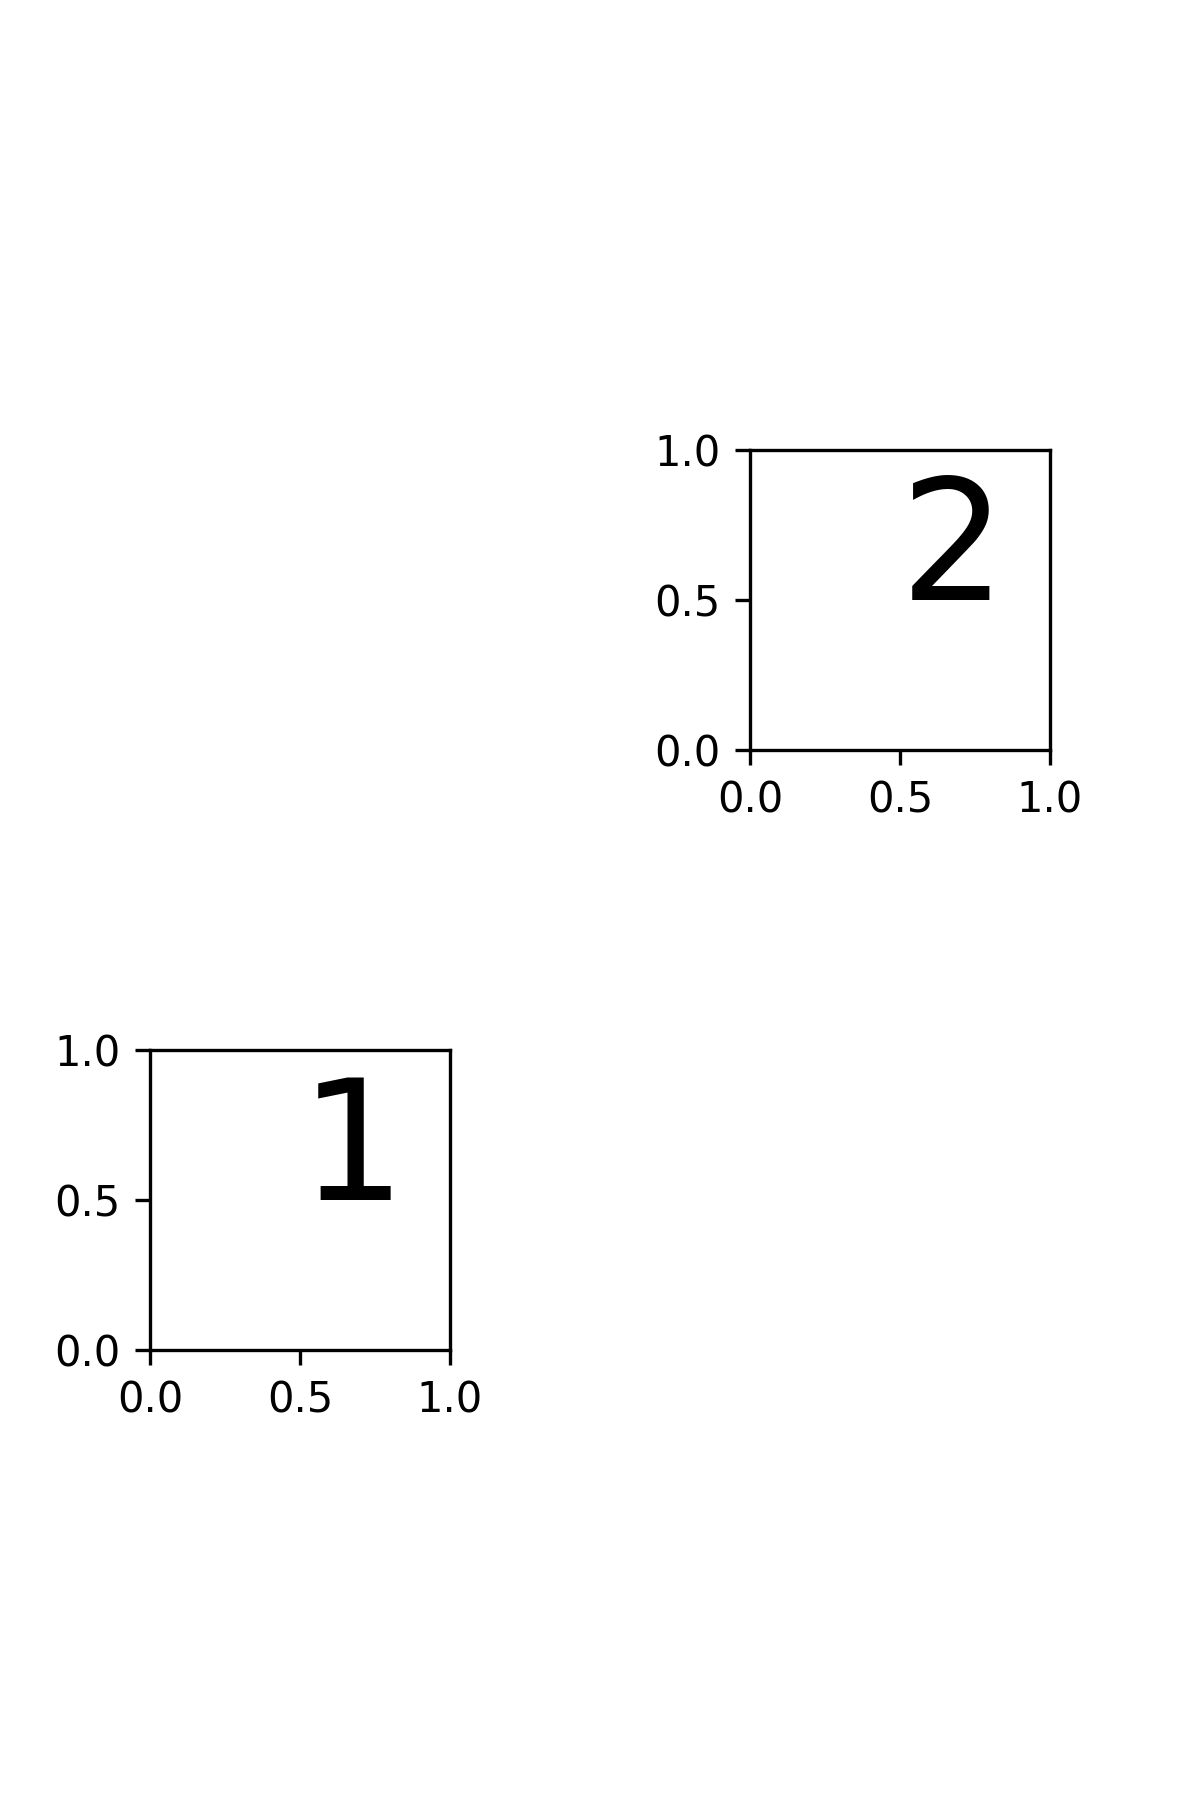
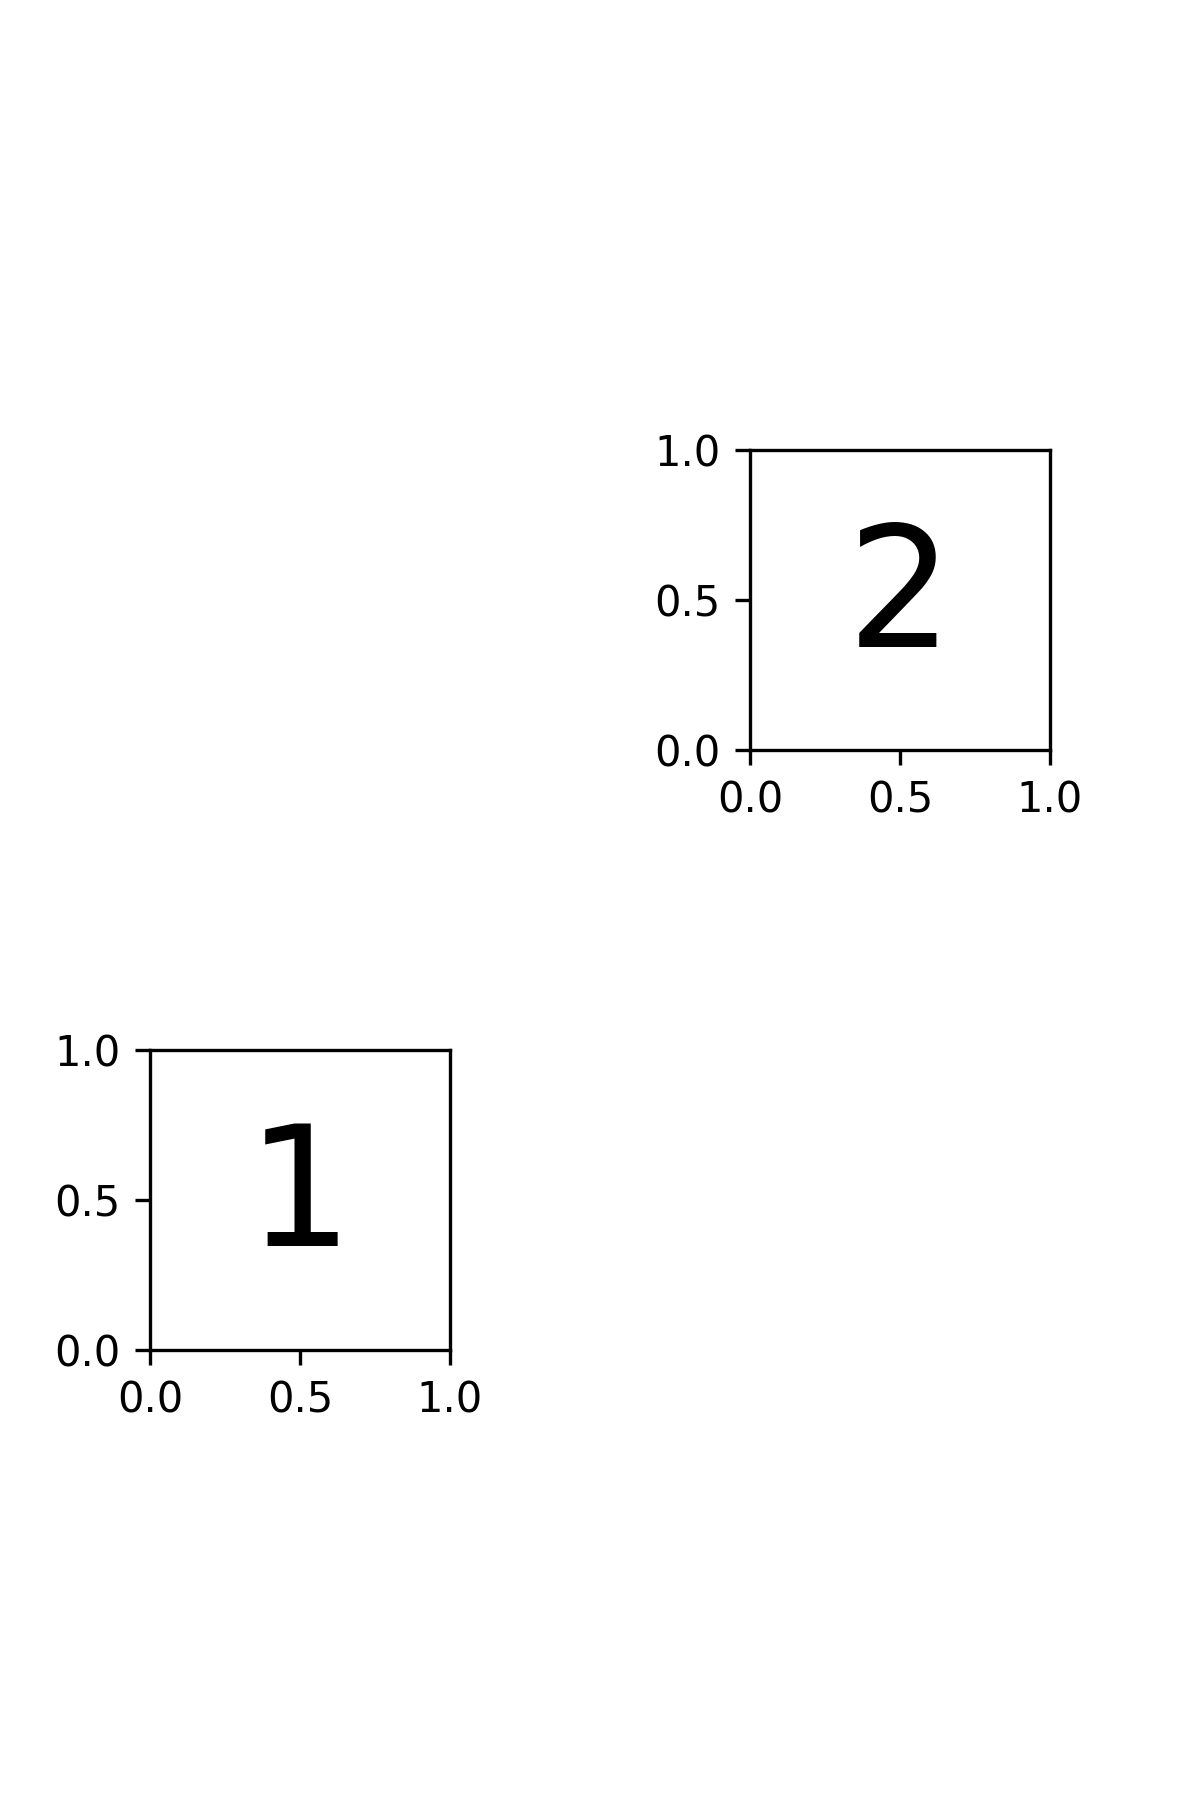
ryan comments

Changed region(s): [[0.7092, 0.2489, 0.8325, 0.3733], [0.2158, 0.5911, 0.3392, 0.7156]]

diff --git a/aopy/visualization/base.py b/aopy/visualization/base.py
@@ -133,7 +133,7 @@ def place_subplots(fig, positions, width, height, **kwargs):
     
     Args:
         fig (pyplot.Figure): figure to place the subplots on
-        positions (npos, 2): list of (x, y) positions (in inches) to place the subplots 
+        positions (npos, 2): list of (x, y) coordinates (in inches) where to center the subplots 
         width (float): width (in inches) of each subplot
         height (float): height (in inches) of each subplot
         kwargs (dict, optional): other keyword arguments to pass to fig.add_axes
@@ -184,7 +184,7 @@ def place_subplots(fig, positions, width, height, **kwargs):
         ax.append(fig.add_axes([left, bottom, width, height], **kwargs))
     return ax
 
-def place_Opto32_subplots(fig_size=10, subplot_size=1, offset=(0,1), **kwargs):
+def place_Opto32_subplots(fig_size=5, subplot_size=0.75, offset=(0.,-0.25), **kwargs):
     '''
     Wrapper around place_subplots() for the Opto32 stimulation sites.
 
@@ -204,14 +204,13 @@ def place_Opto32_subplots(fig_size=10, subplot_size=1, offset=(0,1), **kwargs):
         .. image:: _images/place_Opto32_subplots.png
     '''
     stim_pos, _, _ = load_chmap('Opto32')
-    elec_pos, _, _ = load_chmap('ECoG244')
 
-    # Normalize the positions (relative to the ecog electrodes) to the width and height of the figure
-    stim_pos = (stim_pos - np.min(elec_pos)) / np.max(elec_pos) * fig_size - np.array(offset)
+    # Normalize the positions to the width and height of the figure
+    stim_pos = (stim_pos - np.mean(stim_pos, axis=0)) / (np.max(stim_pos) - np.min(stim_pos)) * fig_size + fig_size/2
 
     # Place subplots
     fig = plt.figure(figsize=(fig_size,fig_size), **kwargs)
-    ax = place_subplots(fig, stim_pos, subplot_size, subplot_size)
+    ax = place_subplots(fig, stim_pos + np.array(offset), subplot_size, subplot_size)
 
     # Remove the axis labels
     for ax_ in ax:

diff --git a/tests/test_visualization.py b/tests/test_visualization.py
@@ -680,8 +680,8 @@ class TestPlotUtils(unittest.TestCase):
         width = 1
         height = 1
         ax = place_subplots(fig, positions, width, height)
-        ax[0].annotate('1', (0.5,0.5), fontsize=40)
-        ax[1].annotate('2', (0.5,0.5), fontsize=40)
+        ax[0].annotate('1', (0.5,0.5), ha='center', va='center', fontsize=40)
+        ax[1].annotate('2', (0.5,0.5), ha='center', va='center', fontsize=40)
         aopy.visualization.savefig(docs_dir, "place_subplots_1.png", transparent=False)
 
         fig = plt.figure(figsize=(4,6))
@@ -689,14 +689,14 @@ class TestPlotUtils(unittest.TestCase):
         width = 2
         height = 3
         ax = place_subplots(fig, positions, width, height)
-        ax[0].annotate('1', (0.5,0.5), fontsize=40)
-        ax[1].annotate('2', (0.5,0.5), fontsize=40)
+        ax[0].annotate('1', (0.5,0.5), ha='center', va='center', fontsize=40)
+        ax[1].annotate('2', (0.5,0.5), ha='center', va='center', fontsize=40)
         aopy.visualization.savefig(docs_dir, "place_subplots_2.png", transparent=False)
 
     def test_place_Opto32_subplots(self):
         fig, ax = place_Opto32_subplots()
         for i, ax in enumerate(ax):
-            ax.annotate(str(i+1), (0.1,0.1), fontsize=40)
+            ax.annotate(str(i+1), (0.5,0.5), ha='center', va='center',  fontsize=40)
         aopy.visualization.savefig(docs_dir, "place_Opto32_subplots.png", transparent=False)
 
 
